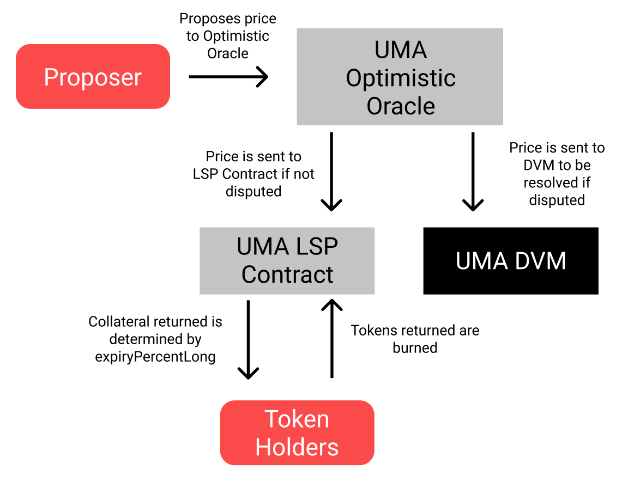
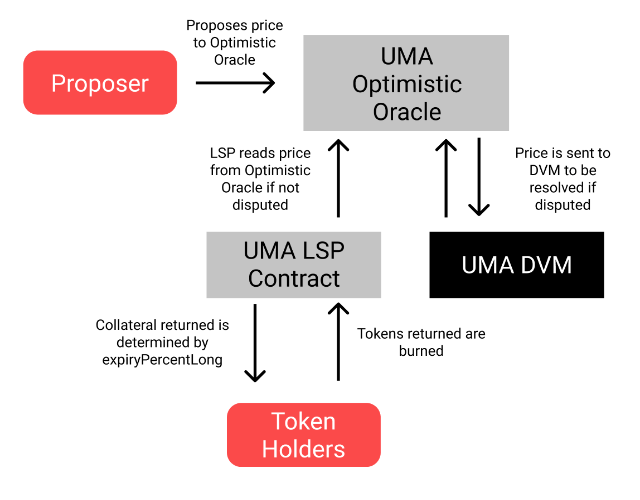
docs(lsp): Updates based on comments

diff --git a/docs/synthetic-tokens/long-short-pair.md b/docs/synthetic-tokens/long-short-pair.md
@@ -13,18 +13,7 @@ Some ideas for contracts that can be made with the LSP include:
 - Covered call options.
 - [Range Tokens for treasury management](https://medium.com/uma-project/treasury-diversification-with-range-tokens-145d4b12614e).
 
-## LSP Contract Deployment
-
-To deploy an LSP contract, the [launch-lsp repo](https://github.com/UMAprotocol/launch-lsp) is utilized to customize LSP deployment parameters shown below. The deployment parameters are used by the `LongShortPairCreator`, a factory contract that creates new instances of long short pair contracts. The `LongShortPairCreator` is responsible for constraining the parameters used by new LSP contracts and creates the LSP contract and associated long and short tokens.
-
-- `expirationTimestamp`: unix timestamp when the contract will expire.
-- `collateralPerPair`: how many units of collateral are required to mint one pair of synthetic tokens.
-- `priceIdentifier`: registered DVM price identifier that the long and short pair will track.
-- `financialProductLibraryAddress`: Contract providing settlement payout logic. Will typically creates bounds and transform the value returned by the price identifier.
-- `longTokenAddress`: ERC20 token used as long in the CFD.
-- `shortTokenAddress`: ERC20 token used as short in the CFD.
-- `customAncillaryData`: Custom ancillary data to be passed along with the price request. If not needed, this should be left as a 0-length bytes array. This is used to pass parameters other than the request timestamp along with the price request. For an explanation of ancillary data functionality and desired format, refer [here](https://docs.google.com/document/d/1vl1BcIMO3NTNxvR0u6fFQqdUgWtIY8XyjVtx8Hkl8Qk/edit). For an example of a price identifier that uses ancillary data, refer [here](https://github.com/UMAprotocol/UMIPs/blob/master/UMIPs/umip-83.md#technical-specifications).
-- `finderAddress`: UMA protocol Finder contract address used to discover other protocol contracts.
+To deploy an LSP contract, use the [launch-lsp repo](https://github.com/UMAprotocol/launch-lsp) for guidance through the deployment process and customizing LSP deployment parameters.
 
 ## Financial Product Libraries (FPL)
 
@@ -54,7 +43,7 @@ After an LSP contract has been deployed, tokens can be minted by calling the `cr
 
 ![](/docs/lsp-tokens/lsp_create.png)
 
-To create tokens, first approve the token minting contract to transfer the collateral currency on your behalf. Then input the number of tokens you would like to create into the Write Contract tab of the LSP contract in Etherscan. If the collateral is WETH and the `collateralPerPair` is set to 1, each long and short token minted would require 1 WETH as collateral.
+To create tokens, first approve the token minting contract to transfer the collateral currency on your behalf. Then input the number of tokens you would like to create into the Write Contract tab of the LSP contract in Etherscan. If the collateral is WETH and the `collateralPerPair` is set to 1, each long and short token minted would require 1 WETH as collateral. If instead the `collateralPerPair` is set to 0.25 WETH on deployment, each long and short token minted would require 0.25 WETH as collateral.
 
 After tokens are minted, to confirm that tokens have been issued by the contract, go to the Read Contract tab of the LSP contract in Etherscan and call the `getPositionTokens` function with the address you minted the tokens from. This will return the number of long and short tokens which will be an equal amount after you mint. The short and long tokens received represent a fully collateralized and risk-neutral position. A minter only receives long or short exposure by selling one of the tokens while a buyer receives exposure simply by purchasing one of the tokens.
 
@@ -76,11 +65,16 @@ The `expire` function does not take any parameters and requests a price from the
 
 ### `settle`
 
-Once a price request exists, Proposers respond by referencing off-chain price feeds and submitting parameters for the `priceIdentifier`, `timestamp`, `ancillaryData`, and `proposedPrice` through the Optimistic Oracle contract. In return, Proposers receive a pre-defined proposal reward set by the Requestor. To propose prices, the Proposer is required to stake a proposal bond. If the price information they provided is disputed and deemed incorrect, the Proposer will lose their bond.
+Once a price request exists, Proposers respond by referencing off-chain price feeds and submitting parameters for the `priceIdentifier`, `timestamp`, `ancillaryData`, and `proposedPrice` through the Optimistic Oracle contract. In return, Proposers receive a pre-defined proposal reward set by the Requestor. To propose prices, the Proposer is required to stake a proposal bond. Proposal bond amounts are custom for each LSP contract and are set using the `optimisticOracleProposerBond` parameter on deployment. If the price information provided is disputed and deemed incorrect, the Proposer will lose their bond. Setting a higher bond requirement makes incorrect disputes and proposals more costly.
 
-Disputers can refute a price submitted by a Proposer within the proposal liveness period by referencing their own off-chain price feeds. The proposal liveness period is a pre-defined amount of time a proposal can be disputed before the Requestor receives the price of the asset. If Disputers do not refute the price submitted by the Proposer within the proposal liveness period, the price is sent to the Requestor. If a proposal is disputed, the price will be submitted to UMA’s DVM and resolved after 48-hours.
+Disputers can refute a price submitted by a Proposer within the proposal liveness period by referencing their own off-chain price feeds. Similar to proposal bonds, the proposal liveness period can be customized for each LSP contract using the `optimisticOracleLivenessTime` parameter on deployment. The liveness period determines the amount of time a proposal can be disputed before the Requestor receives the price of the asset. If Disputers do not refute the price submitted by the Proposer within the proposal liveness period, the price is treated as correct and can now be read from the Optimistic Oracle. If a proposal is disputed, the price will be escalated to UMA’s Decentralized Verification Mechanism (DVM) and resolved after a 48-96 hour voting period.
 
 ![](/docs/lsp-tokens/lsp_settle.png)
+
+The `contractState` of an LSP changes based on the following events and can be read using the designated enum values. The Read Contract tab in Etherscan can be used to check the `contractState` of any LSP contract.
+- `Open` (value of 0): The contract state remains open until the price has been requested. 
+- `ExpiredPriceRequested` (value of 1): Once the price has been requested, the `contractState` changes to 1. The `contractState` stays in this state until the first person calls `settle` even if the price has been returned by the Optimistic Oracle. This is due to the LSP having no context that the price has been resolved until requested successfully.
+- `ExpiredPriceReceived` (value of 2): The price is available from the Optimistic Oracle and `settle` has been called successfully.
 
 To propose a price through Etherscan, use the Write Contract tab in the Optimistic Oracle contract to find proposePrice. For reference, [here](https://github.com/UMAprotocol/protocol/tree/master/packages/core/networks) is a list of contract addresses for each network that can be used to find the Optimistic Oracle contract. The parameters for proposing a price are:
 

diff --git a/docs/developers/deploy-an-lsp.md b/docs/developers/deploy-an-lsp.md
@@ -107,6 +107,8 @@ The below financial product libraries require the following FPL parameters:
     - `strikePrice`
     - `basePercentage`
 
+For additional guidance on what each FPL parameter means, please utilize the [launch-lsp repo](https://github.com/UMAprotocol/launch-lsp#binary-option).
+
 ## Deploying to Kovan
 
 Before running this command, you should customize the parameters to your needs. YOUR_NODE_URL should be filled in with a url for the network that you wish to deploy to. You should also choose the corresponding financial product library (FPL) that makes sense for your use case. The script has been pre-filled with `CoveredCall` which uses `--strikePrice` to set the FPL parameter.
